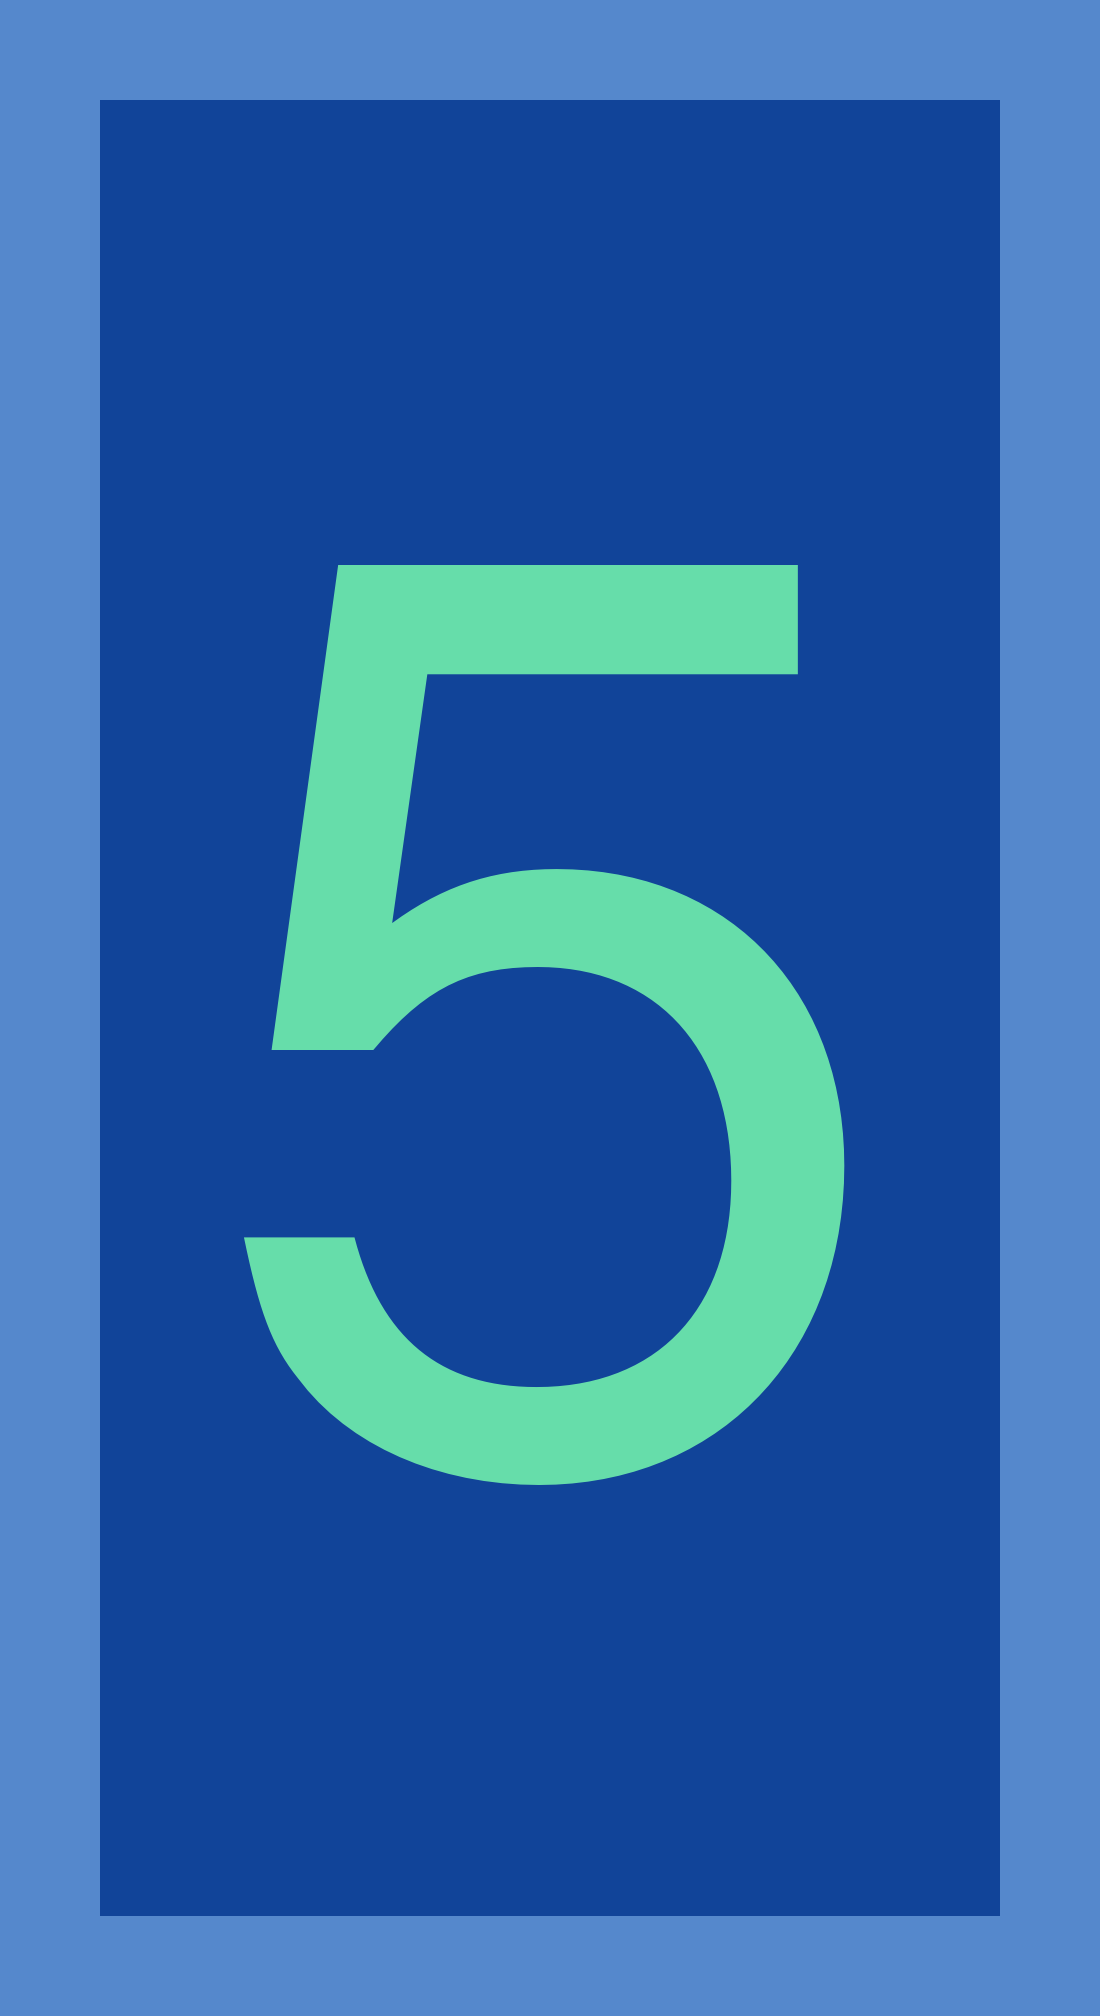
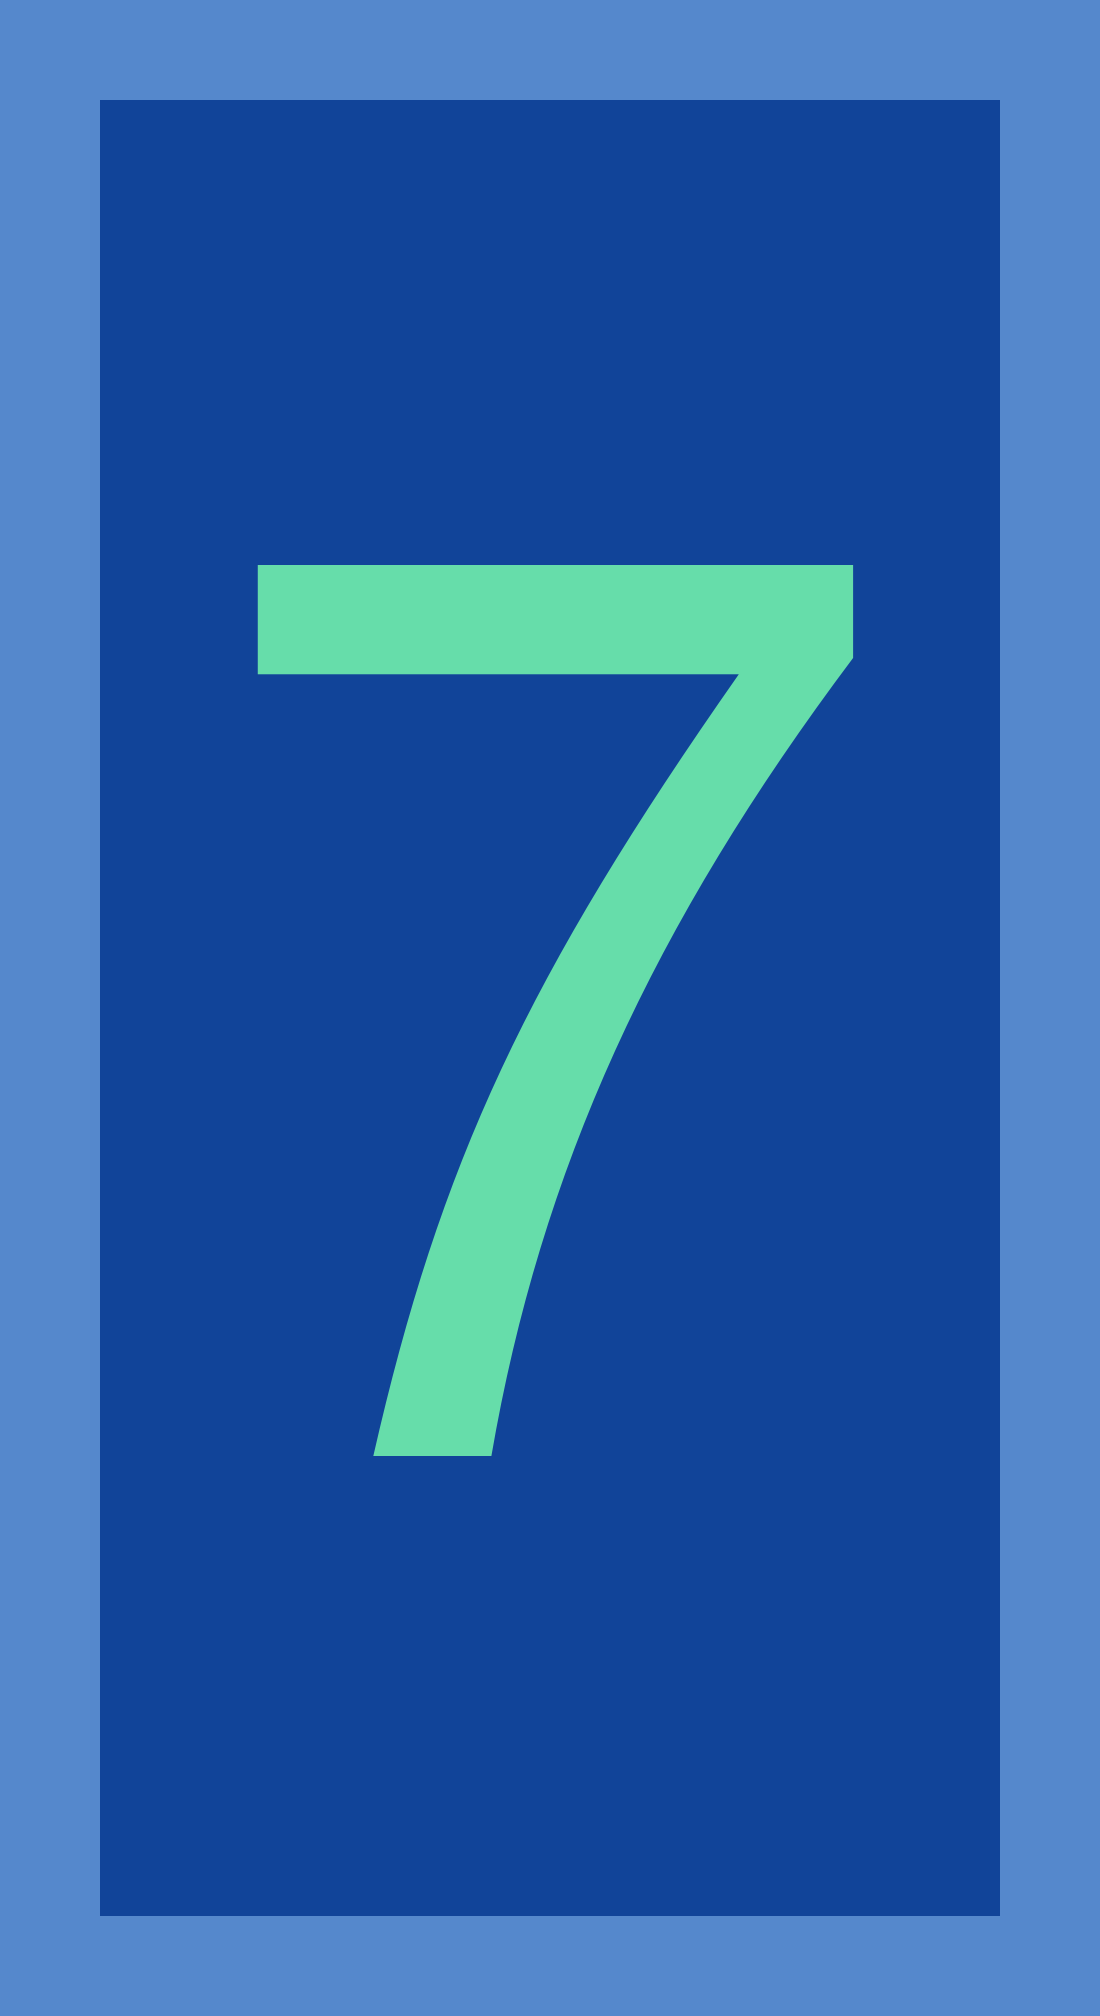
auto ci/cd commit from prime-of-the-day

Changed region(s): [[0.2164, 0.2812, 0.7727, 0.75]]

diff --git a/prime-of-the-day/state.h b/prime-of-the-day/state.h
@@ -1,1 +1,1 @@
-const size_t PRIME_STATE_COUNT = 3;
+const size_t PRIME_STATE_COUNT = 4;
